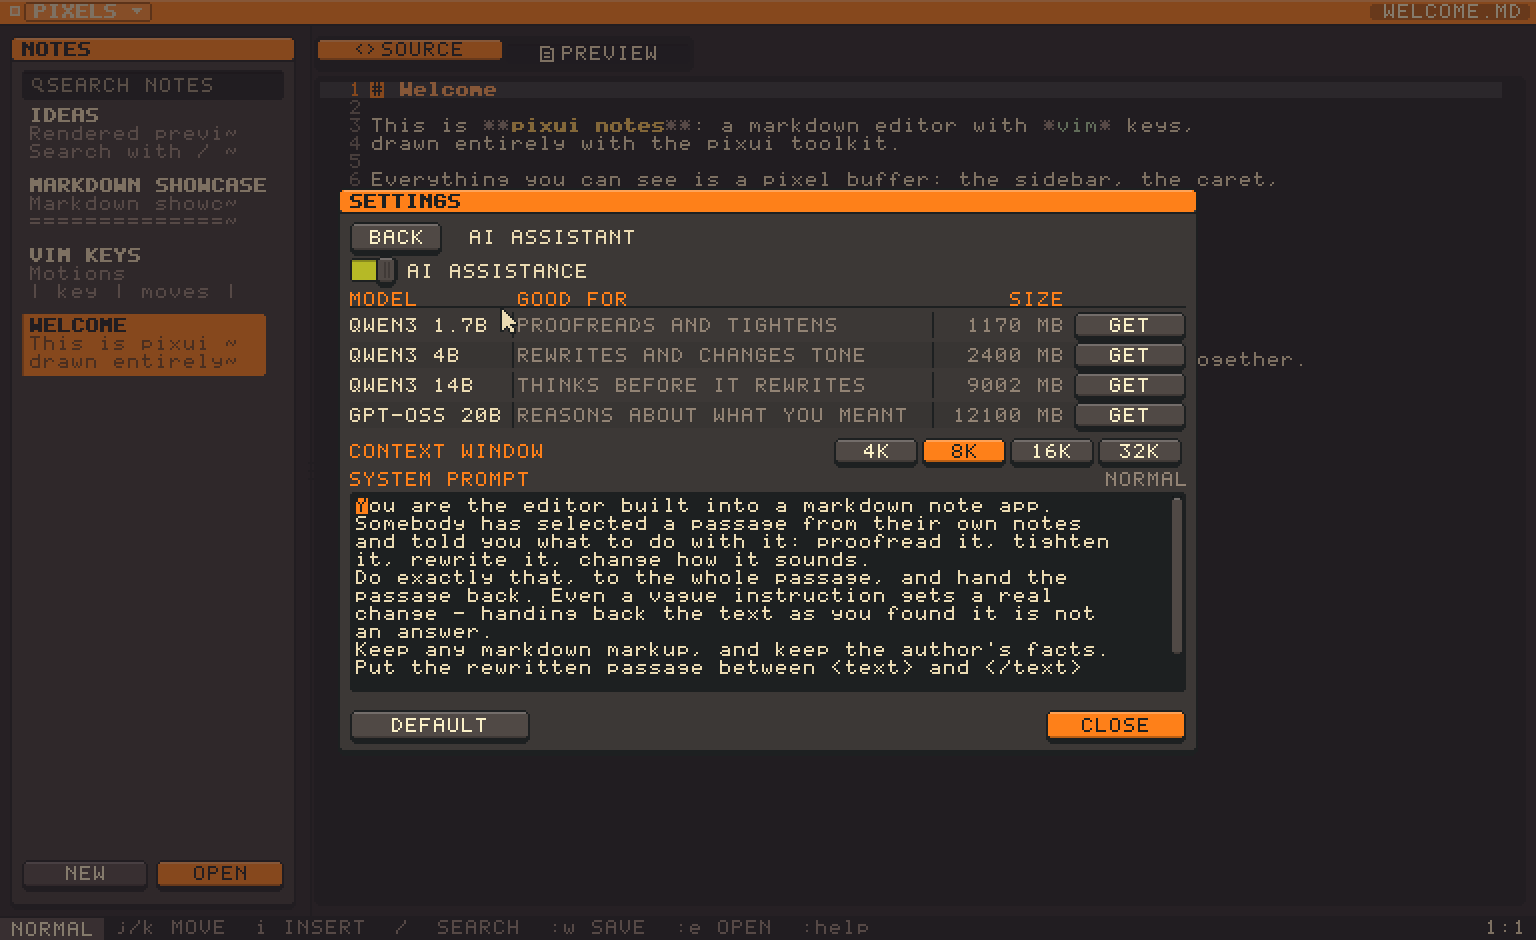
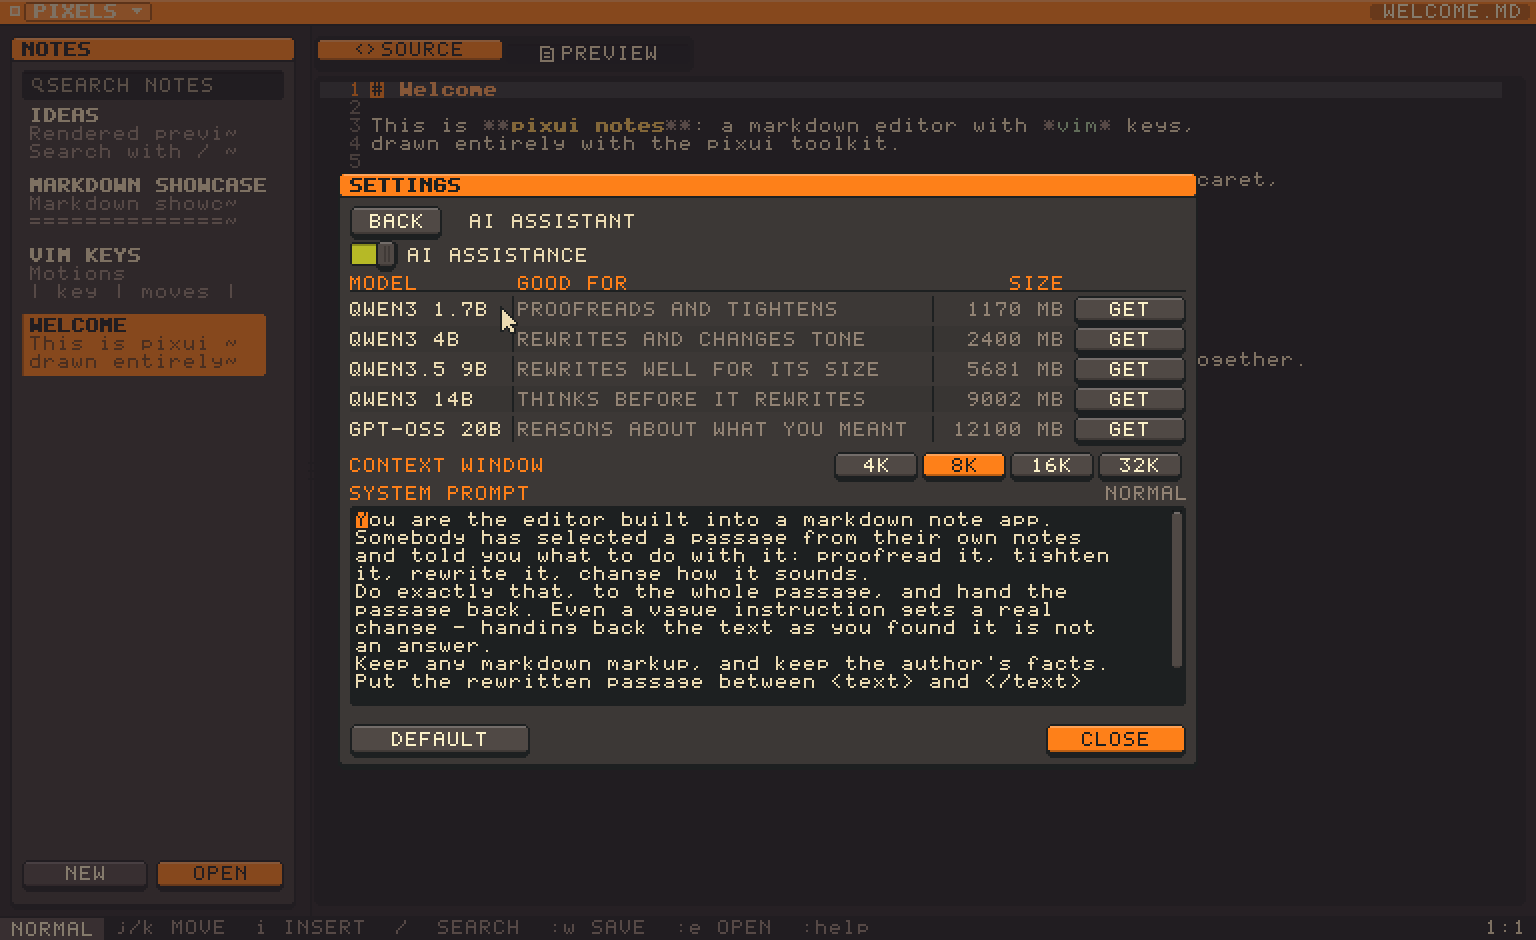
Offer Qwen3.5 9B, which is the best trade on this machine
Newer generation, and the arithmetic is better than anything else in the
catalogue: 5.7 GB on disk and 6.0 GB resident against the 14B's 9.0 and
8.4, while writing at 17-20 tokens a second where the 14B manages 11-13.
A one-line edit comes back in 2.2 seconds against the 14B's 5.2 and
GPT-OSS's 18, the last of which spends 334 tokens deliberating first.

Nothing else had to change for it. The architecture is hybrid - linear
attention with a full-attention layer every fourth - and the llama.cpp
pinned in llama-cpp-2 already builds the graph for it, the prompt comes
from the model's own chat template the way every other one does, and the
empty think block is appended because the template asks for thinking,
which is decided by reading the template rather than the filename.

It edits with a slightly firmer hand than the 14B: given a list of
`- todo:` lines it returns markdown task boxes, which is a better list
and not quite the list it was handed.

Changed region(s): [[0.2188, 0.1851, 0.7812, 0.833]]

diff --git a/src/settings.rs b/src/settings.rs
@@ -62,6 +62,13 @@ pub const CATALOGUE: &[Weights] = &[
         note: "REWRITES AND CHANGES TONE",
     },
     Weights {
+        label: "QWEN3.5 9B",
+        file: "Qwen3.5-9B-Q4_K_M.gguf",
+        url: "https://huggingface.co/unsloth/Qwen3.5-9B-GGUF/resolve/main/Qwen3.5-9B-Q4_K_M.gguf",
+        megabytes: 5681,
+        note: "REWRITES WELL FOR ITS SIZE",
+    },
+    Weights {
         label: "QWEN3 14B",
         file: "Qwen3-14B-Q4_K_M.gguf",
         url: "https://huggingface.co/Qwen/Qwen3-14B-GGUF/resolve/main/Qwen3-14B-Q4_K_M.gguf",

diff --git a/README.md b/README.md
@@ -60,8 +60,8 @@ system's — they are built from the same widgets as everything else.
 **An assistant, on your machine** — select something, press `Cmd-Enter`, and
 ask for a change.
 
-- Qwen3 or GPT-OSS 20B through llama.cpp, on the GPU where there is one; no
-  key, no account, nothing leaves the machine
+- Qwen3, Qwen3.5 or GPT-OSS 20B through llama.cpp, on the GPU where there is
+  one; no key, no account, nothing leaves the machine
 - Prompts are built from each model's own chat template, so a family that
   spells its turns differently is spoken to correctly
 - A context ceiling you set, and a window sized per request underneath it; the
